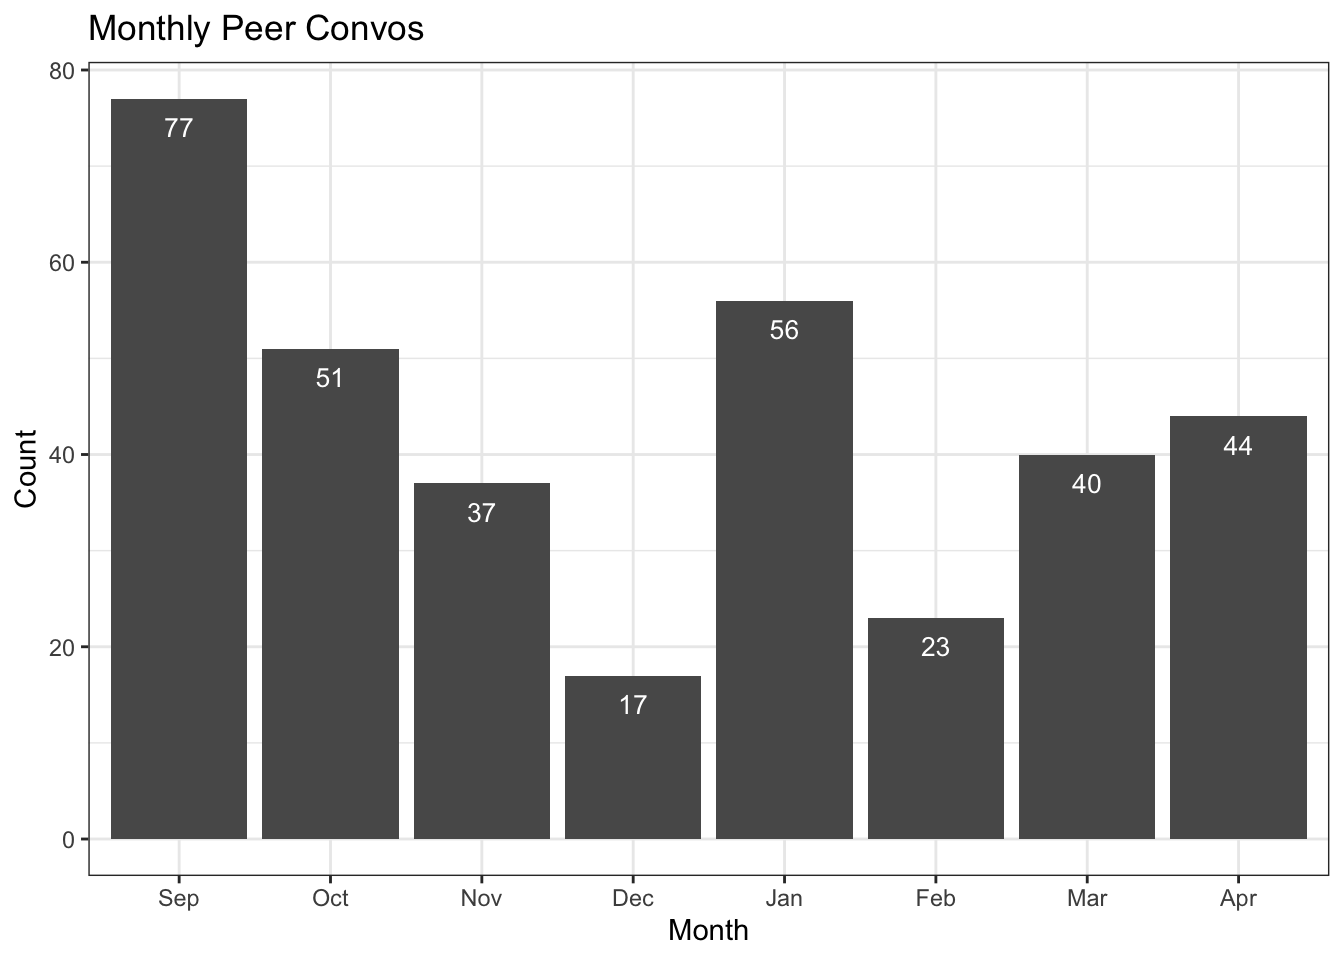
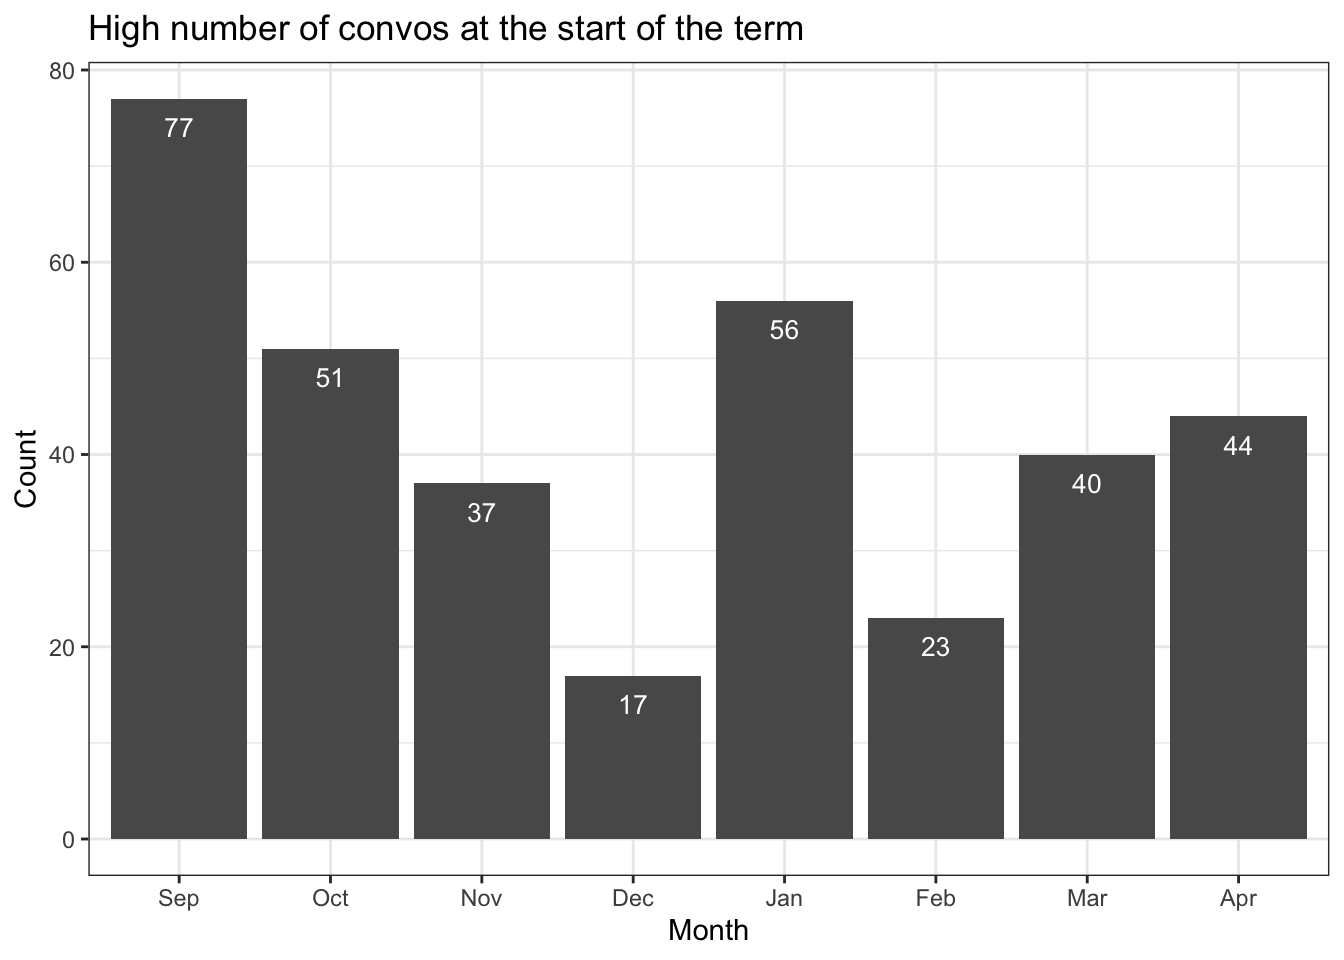
Corrected renaming

Changed region(s): [[0.0625, 0.0, 0.5938, 0.0625]]

diff --git a/PeerConvos.html b/PeerConvos.html
@@ -130,23 +130,23 @@ ul.task-list li input[type="checkbox"] {
 <p>While referrals to the BNC Food Pantry are high, the bar chart above and the table below highlight that we don’t make many referrals to off-campus food banks, when maybe we should as part of someone’s food strategy.</p>
 <div class="cell">
 <div class="cell-output-display">
-<div id="fqzgchugzh" style="padding-left:0px;padding-right:0px;padding-top:10px;padding-bottom:10px;overflow-x:auto;overflow-y:auto;width:auto;height:auto;">
-<style>#fqzgchugzh table {
+<div id="qnyfeqnyyk" style="padding-left:0px;padding-right:0px;padding-top:10px;padding-bottom:10px;overflow-x:auto;overflow-y:auto;width:auto;height:auto;">
+<style>#qnyfeqnyyk table {
   font-family: sans, system-ui, 'Segoe UI', Roboto, Helvetica, Arial, sans-serif, 'Apple Color Emoji', 'Segoe UI Emoji', 'Segoe UI Symbol', 'Noto Color Emoji';
   -webkit-font-smoothing: antialiased;
   -moz-osx-font-smoothing: grayscale;
 }
 
-#fqzgchugzh thead, #fqzgchugzh tbody, #fqzgchugzh tfoot, #fqzgchugzh tr, #fqzgchugzh td, #fqzgchugzh th {
+#qnyfeqnyyk thead, #qnyfeqnyyk tbody, #qnyfeqnyyk tfoot, #qnyfeqnyyk tr, #qnyfeqnyyk td, #qnyfeqnyyk th {
   border-style: none;
 }
 
-#fqzgchugzh p {
+#qnyfeqnyyk p {
   margin: 0;
   padding: 0;
 }
 
-#fqzgchugzh .gt_table {
+#qnyfeqnyyk .gt_table {
   display: table;
   border-collapse: collapse;
   line-height: normal;
@@ -172,12 +172,12 @@ ul.task-list li input[type="checkbox"] {
   border-left-color: #D3D3D3;
 }
 
-#fqzgchugzh .gt_caption {
+#qnyfeqnyyk .gt_caption {
   padding-top: 4px;
   padding-bottom: 4px;
 }
 
-#fqzgchugzh .gt_title {
+#qnyfeqnyyk .gt_title {
   color: #333333;
   font-size: 125%;
   font-weight: initial;
@@ -189,7 +189,7 @@ ul.task-list li input[type="checkbox"] {
   border-bottom-width: 0;
 }
 
-#fqzgchugzh .gt_subtitle {
+#qnyfeqnyyk .gt_subtitle {
   color: #333333;
   font-size: 85%;
   font-weight: initial;
@@ -201,7 +201,7 @@ ul.task-list li input[type="checkbox"] {
   border-top-width: 0;
 }
 
-#fqzgchugzh .gt_heading {
+#qnyfeqnyyk .gt_heading {
   background-color: #DCD5E7;
   text-align: center;
   border-bottom-color: #FFFFFF;
@@ -213,13 +213,13 @@ ul.task-list li input[type="checkbox"] {
   border-right-color: #D3D3D3;
 }
 
-#fqzgchugzh .gt_bottom_border {
+#qnyfeqnyyk .gt_bottom_border {
   border-bottom-style: solid;
   border-bottom-width: 2px;
   border-bottom-color: #D3D3D3;
 }
 
-#fqzgchugzh .gt_col_headings {
+#qnyfeqnyyk .gt_col_headings {
   border-top-style: solid;
   border-top-width: 2px;
   border-top-color: #D3D3D3;
@@ -234,7 +234,7 @@ ul.task-list li input[type="checkbox"] {
   border-right-color: #D3D3D3;
 }
 
-#fqzgchugzh .gt_col_heading {
+#qnyfeqnyyk .gt_col_heading {
   color: #333333;
   background-color: #FFFFFF;
   font-size: 100%;
@@ -254,7 +254,7 @@ ul.task-list li input[type="checkbox"] {
   overflow-x: hidden;
 }
 
-#fqzgchugzh .gt_column_spanner_outer {
+#qnyfeqnyyk .gt_column_spanner_outer {
   color: #333333;
   background-color: #FFFFFF;
   font-size: 100%;
@@ -266,15 +266,15 @@ ul.task-list li input[type="checkbox"] {
   padding-right: 4px;
 }
 
-#fqzgchugzh .gt_column_spanner_outer:first-child {
+#qnyfeqnyyk .gt_column_spanner_outer:first-child {
   padding-left: 0;
 }
 
-#fqzgchugzh .gt_column_spanner_outer:last-child {
+#qnyfeqnyyk .gt_column_spanner_outer:last-child {
   padding-right: 0;
 }
 
-#fqzgchugzh .gt_column_spanner {
+#qnyfeqnyyk .gt_column_spanner {
   border-bottom-style: solid;
   border-bottom-width: 2px;
   border-bottom-color: #D3D3D3;
@@ -286,11 +286,11 @@ ul.task-list li input[type="checkbox"] {
   width: 100%;
 }
 
-#fqzgchugzh .gt_spanner_row {
+#qnyfeqnyyk .gt_spanner_row {
   border-bottom-style: hidden;
 }
 
-#fqzgchugzh .gt_group_heading {
+#qnyfeqnyyk .gt_group_heading {
   padding-top: 8px;
   padding-bottom: 8px;
   padding-left: 5px;
@@ -316,7 +316,7 @@ ul.task-list li input[type="checkbox"] {
   text-align: left;
 }
 
-#fqzgchugzh .gt_empty_group_heading {
+#qnyfeqnyyk .gt_empty_group_heading {
   padding: 0.5px;
   color: #333333;
   background-color: #FFFFFF;
@@ -331,15 +331,15 @@ ul.task-list li input[type="checkbox"] {
   vertical-align: middle;
 }
 
-#fqzgchugzh .gt_from_md > :first-child {
+#qnyfeqnyyk .gt_from_md > :first-child {
   margin-top: 0;
 }
 
-#fqzgchugzh .gt_from_md > :last-child {
+#qnyfeqnyyk .gt_from_md > :last-child {
   margin-bottom: 0;
 }
 
-#fqzgchugzh .gt_row {
+#qnyfeqnyyk .gt_row {
   padding-top: 8px;
   padding-bottom: 8px;
   padding-left: 5px;
@@ -358,7 +358,7 @@ ul.task-list li input[type="checkbox"] {
   overflow-x: hidden;
 }
 
-#fqzgchugzh .gt_stub {
+#qnyfeqnyyk .gt_stub {
   color: #333333;
   background-color: #FFFFFF;
   font-size: 100%;
@@ -371,7 +371,7 @@ ul.task-list li input[type="checkbox"] {
   padding-right: 5px;
 }
 
-#fqzgchugzh .gt_stub_row_group {
+#qnyfeqnyyk .gt_stub_row_group {
   color: #333333;
   background-color: #FFFFFF;
   font-size: 100%;
@@ -385,15 +385,15 @@ ul.task-list li input[type="checkbox"] {
   vertical-align: top;
 }
 
-#fqzgchugzh .gt_row_group_first td {
+#qnyfeqnyyk .gt_row_group_first td {
   border-top-width: 2px;
 }
 
-#fqzgchugzh .gt_row_group_first th {
+#qnyfeqnyyk .gt_row_group_first th {
   border-top-width: 2px;
 }
 
-#fqzgchugzh .gt_summary_row {
+#qnyfeqnyyk .gt_summary_row {
   color: #333333;
   background-color: #FFFFFF;
   text-transform: inherit;
@@ -403,16 +403,16 @@ ul.task-list li input[type="checkbox"] {
   padding-right: 5px;
 }
 
-#fqzgchugzh .gt_first_summary_row {
+#qnyfeqnyyk .gt_first_summary_row {
   border-top-style: solid;
   border-top-color: #D3D3D3;
 }
 
-#fqzgchugzh .gt_first_summary_row.thick {
+#qnyfeqnyyk .gt_first_summary_row.thick {
   border-top-width: 2px;
 }
 
-#fqzgchugzh .gt_last_summary_row {
+#qnyfeqnyyk .gt_last_summary_row {
   padding-top: 8px;
   padding-bottom: 8px;
   padding-left: 5px;
@@ -422,7 +422,7 @@ ul.task-list li input[type="checkbox"] {
   border-bottom-color: #D3D3D3;
 }
 
-#fqzgchugzh .gt_grand_summary_row {
+#qnyfeqnyyk .gt_grand_summary_row {
   color: #333333;
   background-color: #FFFFFF;
   text-transform: inherit;
@@ -432,7 +432,7 @@ ul.task-list li input[type="checkbox"] {
   padding-right: 5px;
 }
 
-#fqzgchugzh .gt_first_grand_summary_row {
+#qnyfeqnyyk .gt_first_grand_summary_row {
   padding-top: 8px;
   padding-bottom: 8px;
   padding-left: 5px;
@@ -442,7 +442,7 @@ ul.task-list li input[type="checkbox"] {
   border-top-color: #D3D3D3;
 }
 
-#fqzgchugzh .gt_last_grand_summary_row_top {
+#qnyfeqnyyk .gt_last_grand_summary_row_top {
   padding-top: 8px;
   padding-bottom: 8px;
   padding-left: 5px;
@@ -452,11 +452,11 @@ ul.task-list li input[type="checkbox"] {
   border-bottom-color: #D3D3D3;
 }
 
-#fqzgchugzh .gt_striped {
+#qnyfeqnyyk .gt_striped {
   background-color: rgba(128, 128, 128, 0.05);
 }
 
-#fqzgchugzh .gt_table_body {
+#qnyfeqnyyk .gt_table_body {
   border-top-style: solid;
   border-top-width: 2px;
   border-top-color: #D3D3D3;
@@ -465,7 +465,7 @@ ul.task-list li input[type="checkbox"] {
   border-bottom-color: #D3D3D3;
 }
 
-#fqzgchugzh .gt_footnotes {
+#qnyfeqnyyk .gt_footnotes {
   color: #333333;
   background-color: #FFFFFF;
   border-bottom-style: none;
@@ -479,7 +479,7 @@ ul.task-list li input[type="checkbox"] {
   border-right-color: #D3D3D3;
 }
 
-#fqzgchugzh .gt_footnote {
+#qnyfeqnyyk .gt_footnote {
   margin: 0px;
   font-size: 90%;
   padding-top: 4px;
@@ -488,7 +488,7 @@ ul.task-list li input[type="checkbox"] {
   padding-right: 5px;
 }
 
-#fqzgchugzh .gt_sourcenotes {
+#qnyfeqnyyk .gt_sourcenotes {
   color: #333333;
   background-color: #FFFFFF;
   border-bottom-style: none;
@@ -502,7 +502,7 @@ ul.task-list li input[type="checkbox"] {
   border-right-color: #D3D3D3;
 }
 
-#fqzgchugzh .gt_sourcenote {
+#qnyfeqnyyk .gt_sourcenote {
   font-size: 90%;
   padding-top: 4px;
   padding-bottom: 4px;
@@ -510,72 +510,72 @@ ul.task-list li input[type="checkbox"] {
   padding-right: 5px;
 }
 
-#fqzgchugzh .gt_left {
+#qnyfeqnyyk .gt_left {
   text-align: left;
 }
 
-#fqzgchugzh .gt_center {
+#qnyfeqnyyk .gt_center {
   text-align: center;
 }
 
-#fqzgchugzh .gt_right {
+#qnyfeqnyyk .gt_right {
   text-align: right;
   font-variant-numeric: tabular-nums;
 }
 
-#fqzgchugzh .gt_font_normal {
+#qnyfeqnyyk .gt_font_normal {
   font-weight: normal;
 }
 
-#fqzgchugzh .gt_font_bold {
+#qnyfeqnyyk .gt_font_bold {
   font-weight: bold;
 }
 
-#fqzgchugzh .gt_font_italic {
+#qnyfeqnyyk .gt_font_italic {
   font-style: italic;
 }
 
-#fqzgchugzh .gt_super {
+#qnyfeqnyyk .gt_super {
   font-size: 65%;
 }
 
-#fqzgchugzh .gt_footnote_marks {
+#qnyfeqnyyk .gt_footnote_marks {
   font-size: 75%;
   vertical-align: 0.4em;
   position: initial;
 }
 
-#fqzgchugzh .gt_asterisk {
+#qnyfeqnyyk .gt_asterisk {
   font-size: 100%;
   vertical-align: 0;
 }
 
-#fqzgchugzh .gt_indent_1 {
+#qnyfeqnyyk .gt_indent_1 {
   text-indent: 5px;
 }
 
-#fqzgchugzh .gt_indent_2 {
+#qnyfeqnyyk .gt_indent_2 {
   text-indent: 10px;
 }
 
-#fqzgchugzh .gt_indent_3 {
+#qnyfeqnyyk .gt_indent_3 {
   text-indent: 15px;
 }
 
-#fqzgchugzh .gt_indent_4 {
+#qnyfeqnyyk .gt_indent_4 {
   text-indent: 20px;
 }
 
-#fqzgchugzh .gt_indent_5 {
+#qnyfeqnyyk .gt_indent_5 {
   text-indent: 25px;
 }
 
-#fqzgchugzh .katex-display {
+#qnyfeqnyyk .katex-display {
   display: inline-flex !important;
   margin-bottom: 0.75em !important;
 }
 
-#fqzgchugzh div.Reactable > div.rt-table > div.rt-thead > div.rt-tr.rt-tr-group-header > div.rt-th-group:after {
+#qnyfeqnyyk div.Reactable > div.rt-table > div.rt-thead > div.rt-tr.rt-tr-group-header > div.rt-th-group:after {
   height: 0px !important;
 }
 </style>
@@ -673,15 +673,6 @@ ul.task-list li input[type="checkbox"] {
 </section>
 <section id="three-main-topics" class="level3">
 <h3 class="anchored" data-anchor-id="three-main-topics">Three Main Topics</h3>
-<div class="cell">
-<div class="cell-output-display">
-<div>
-<figure class="figure">
-<p><img src="PeerConvos_files/figure-html/Three%20Main%20Conversation%20Topics-1.png" class="img-fluid figure-img" width="672"></p>
-</figure>
-</div>
-</div>
-</div>
 <div class="cell">
 <div class="cell-output-display">
 <div>
